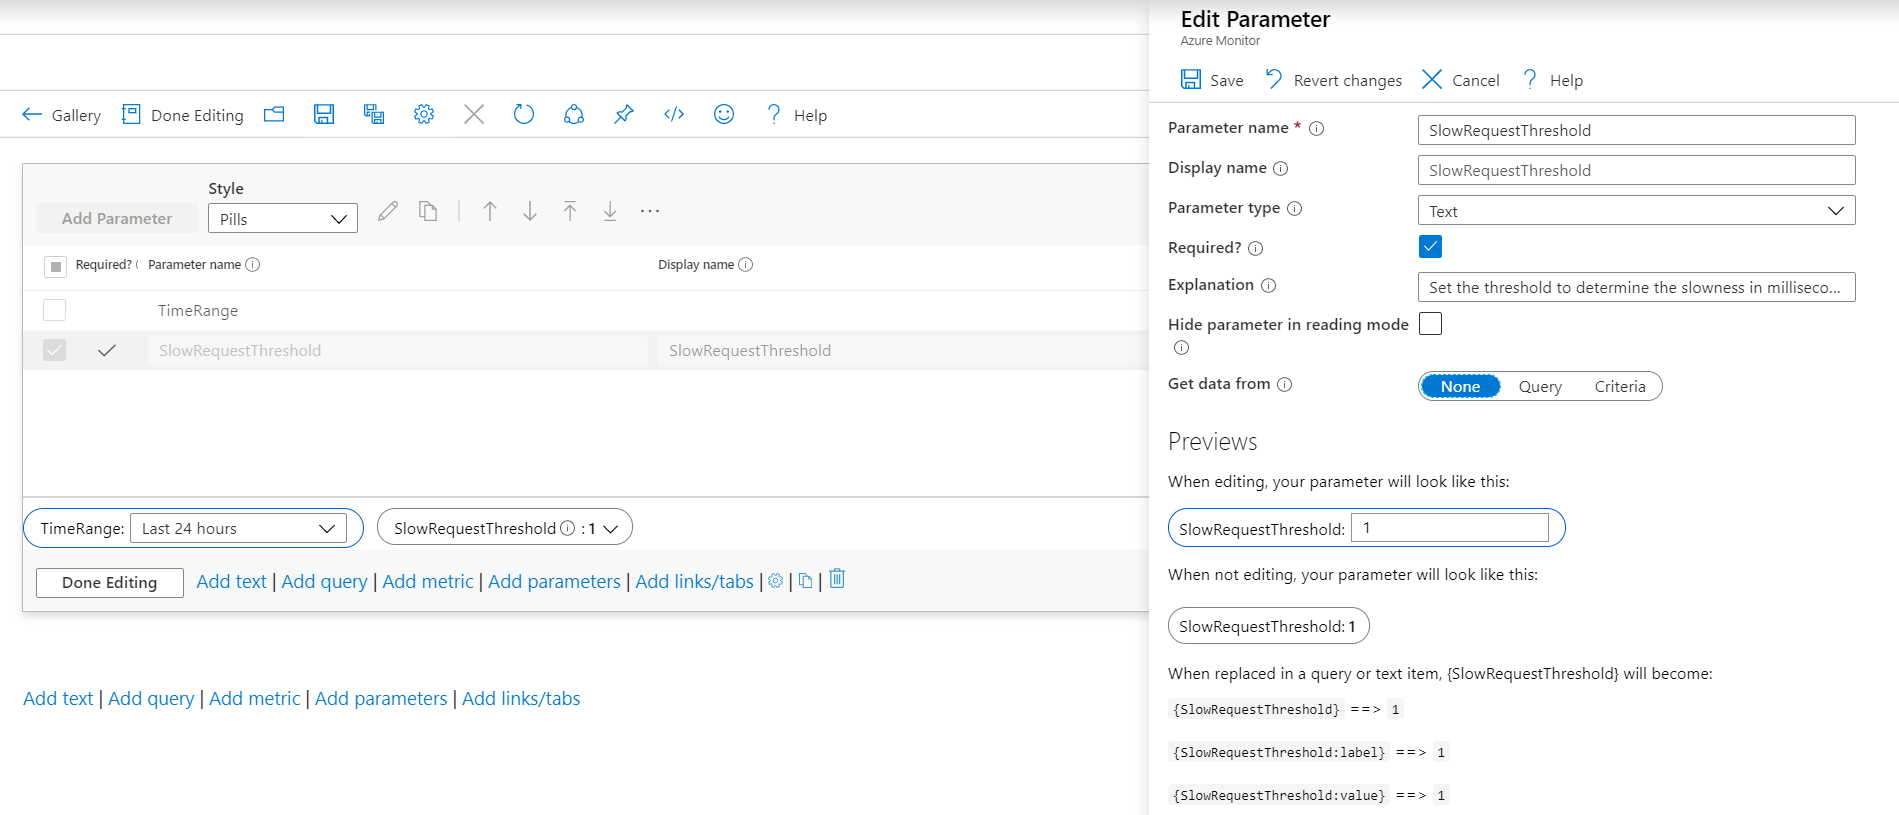
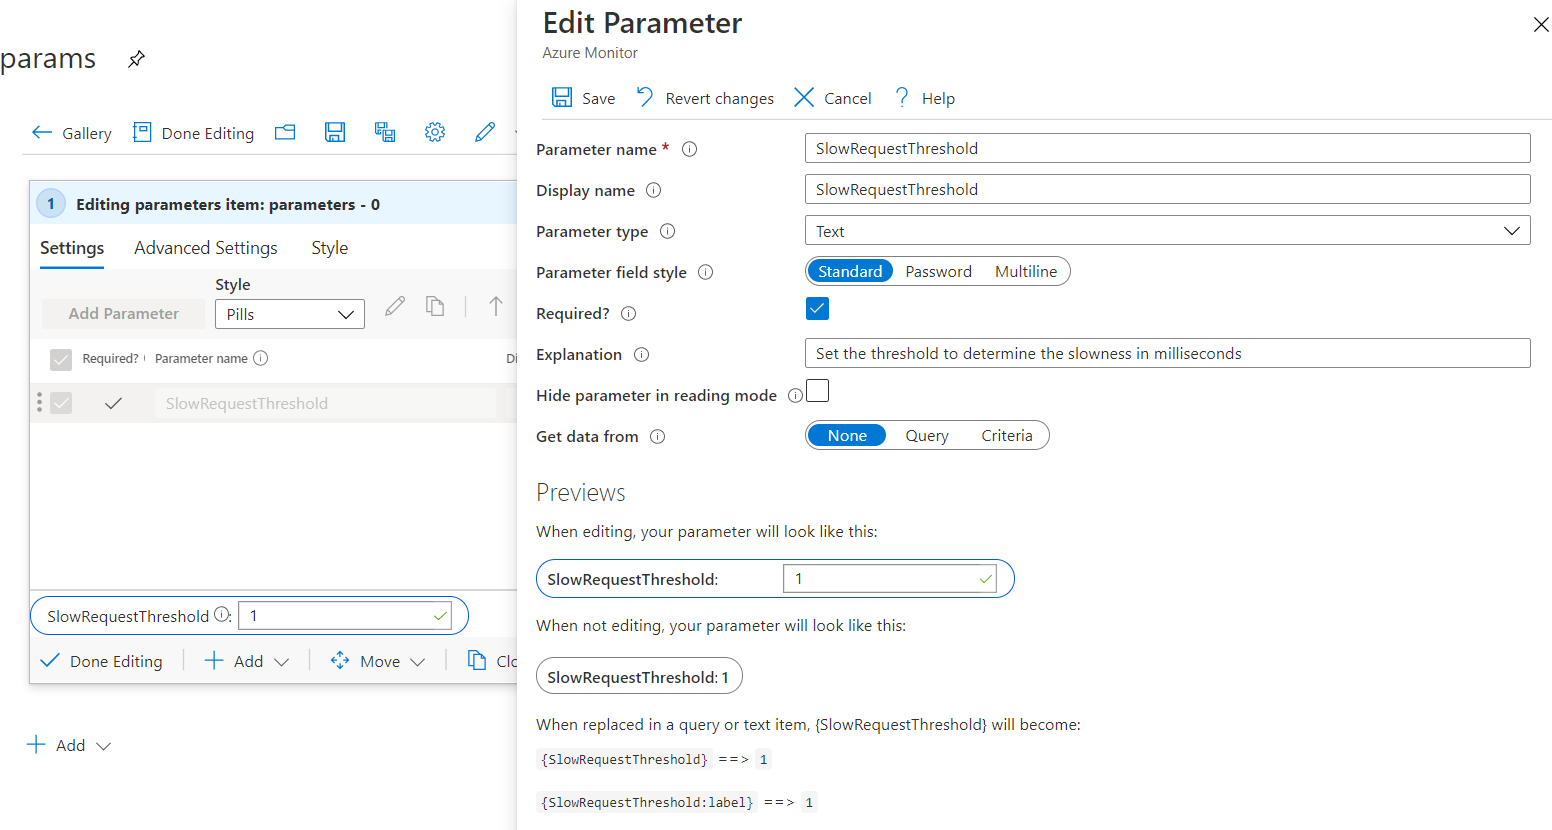
Added docs in specific files

diff --git a/Documentation/Parameters/Parameters.md b/Documentation/Parameters/Parameters.md
@@ -8,7 +8,7 @@ Supported parameter types include:
 * [Time Range](Time.md) - allows a user to select from prepopulated time ranges or select a custom range
 * [Drop down](DropDown.md) - allows a user to select one or more values from a set of values
 * [Options Group](OptionsGroup.md) - allows a user to select a single value from a set of values
-* [Text](Text.md) - allows a user to enter arbitrary text. Text support following 
+* [Text](Text.md) - allows a user to enter arbitrary text.
 * [Resource](Resources.md) - allows a user to select one or more Azure resources
 * [Subscription](Resources.md) - allows a user to select one or more Azure subscription resources
 * Resource Type - allows a user to select one or more Azure resource type values
@@ -34,36 +34,6 @@ These parameter values can be referenced in other parts of workbooks either via 
 This is how the workbook will look like in read-mode, in the "Pills" style.
 
 ![Image showing a time range parameter in read mode](../Images/Parameters-Time.png)
-
-## Parameter field style
-### Text
-Text field support following field style:
-
-1. Standard: A single line text box.
-![Image showing standard text field](../Images/StandardText.png)
-
-2. Password: A single line password field. The password value is only hidden on UI when user types. The value is still fully accessible as a param value when referred and it is stored unencrypted when workbook is saved.
-![Image showing password field](../Images/PasswordText.png)
-
-3. Multiline: A multiline text field with support of rich intellisense and syntax colorization for following languages:
-    - Text
-    - Markdown
-    - Json
-    - Sql
-    - TypeScript
-    - Kql
-
-![Image showing multiline text field](../Images/KqlText.png)
-
-### Multi-value
-Multi-value field support following field style:
-1. Standard: Allows a user to add or remove arbitrary text items
-
-![Image showing standard multi-value field](../Images/StandardMultivalue.png)
-
-2. Password:allows a user to add or remove arbitrary password fields. The password values are only hidden on UI when user types. The values are still fully accessible as a param value when referred and they are stored unencrypted when workbook is saved.
-
-![Image showing password multi-value field](../Images/PasswordMultivalue.png)
 
 ## Referencing a parameter
 ### Via Bindings

diff --git a/Documentation/Parameters/MultiValue.md b/Documentation/Parameters/MultiValue.md
@@ -32,6 +32,16 @@ A multi-value parameter behaves similarly to a multi-select [Drop Down](./DropDo
     | order by Heartbeats desc
 ```
 
+## Parameter field style
+Multi-value parameter supports following field style:
+1. Standard: Allows a user to add or remove arbitrary text items
+
+![Image showing standard multi-value field](../Images/StandardMultivalue.png)
+
+2. Password:Allows a user to add or remove arbitrary password fields. The password values are only hidden on UI when user types. The values are still fully accessible as a param value when referred and they are stored unencrypted when workbook is saved.
+
+![Image showing password multi-value field](../Images/PasswordMultivalue.png)
+
 ## Creating a multi-value with initial values.
 You can use a query to seed the multi-value parameter with initial values. The user can then manually remove values, or add additional values. If a query is used to populate the multi-value parameter, a restore defaults button will appear on the parameter to restore back to the originally queried values.
 

diff --git a/Documentation/Parameters/Text.md b/Documentation/Parameters/Text.md
@@ -21,6 +21,25 @@ This is how the workbook will look like in read-mode.
 
 ![Image showing a text parameter in read mode](../Images/Parameters-Text-Readmode.png)
 
+## Parameter field style
+Text parameter supports following field style:
+
+1. Standard: A single line text field.
+![Image showing standard text field](../Images/StandardText.png)
+
+2. Password: A single line password field. The password value is only hidden on UI when user types. The value is still fully accessible as a param value when referred and it is stored unencrypted when workbook is saved.
+![Image showing password field](../Images/PasswordText.png)
+
+3. Multiline: A multiline text field with support of rich intellisense and syntax colorization for following languages:
+    - Text
+    - Markdown
+    - Json
+    - Sql
+    - TypeScript
+    - Kql
+
+![Image showing multiline text field](../Images/KqlText.png)
+
 ## Referencing a text parameter
 1. Add a query control to the workbook and select an Application Insights resource.
 2. In the KQL box, add this snippet:
